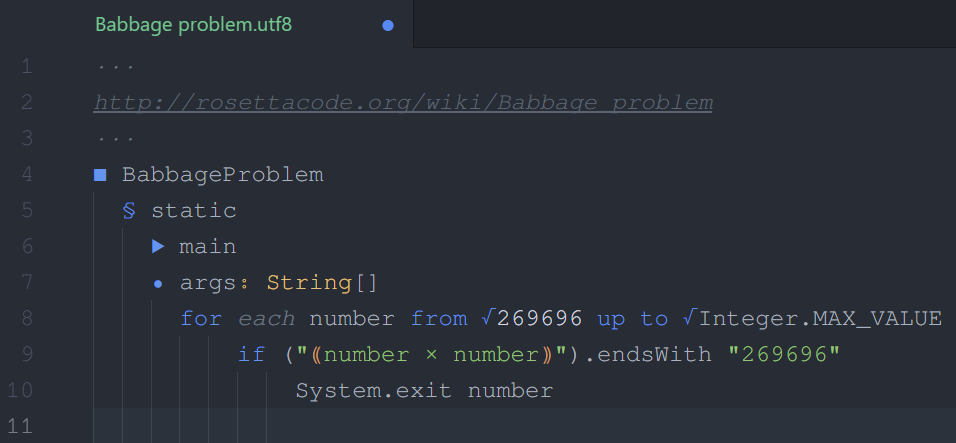
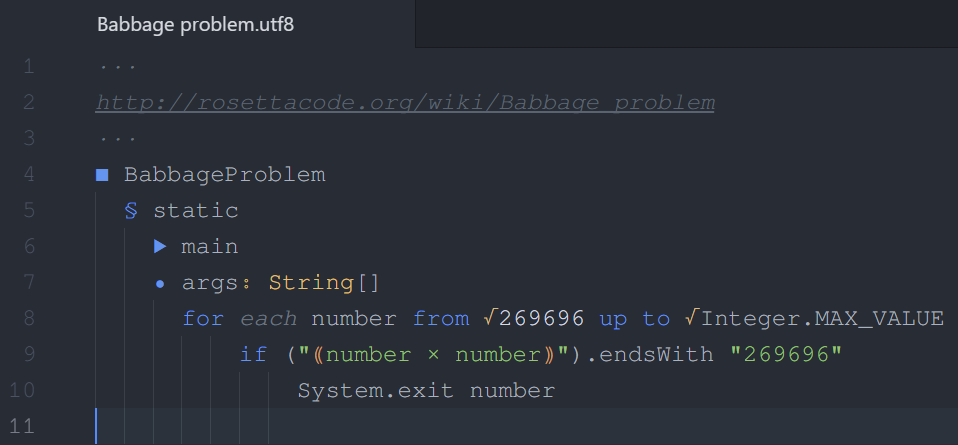
coloring syntax

diff --git a/styles/language-utfool.less b/styles/language-utfool.less
@@ -23,3 +23,7 @@
 .syntax--number {
   color: @text-color-highlight;
 }
+
+.syntax--alias {
+  color: @text-color-modified;
+}
